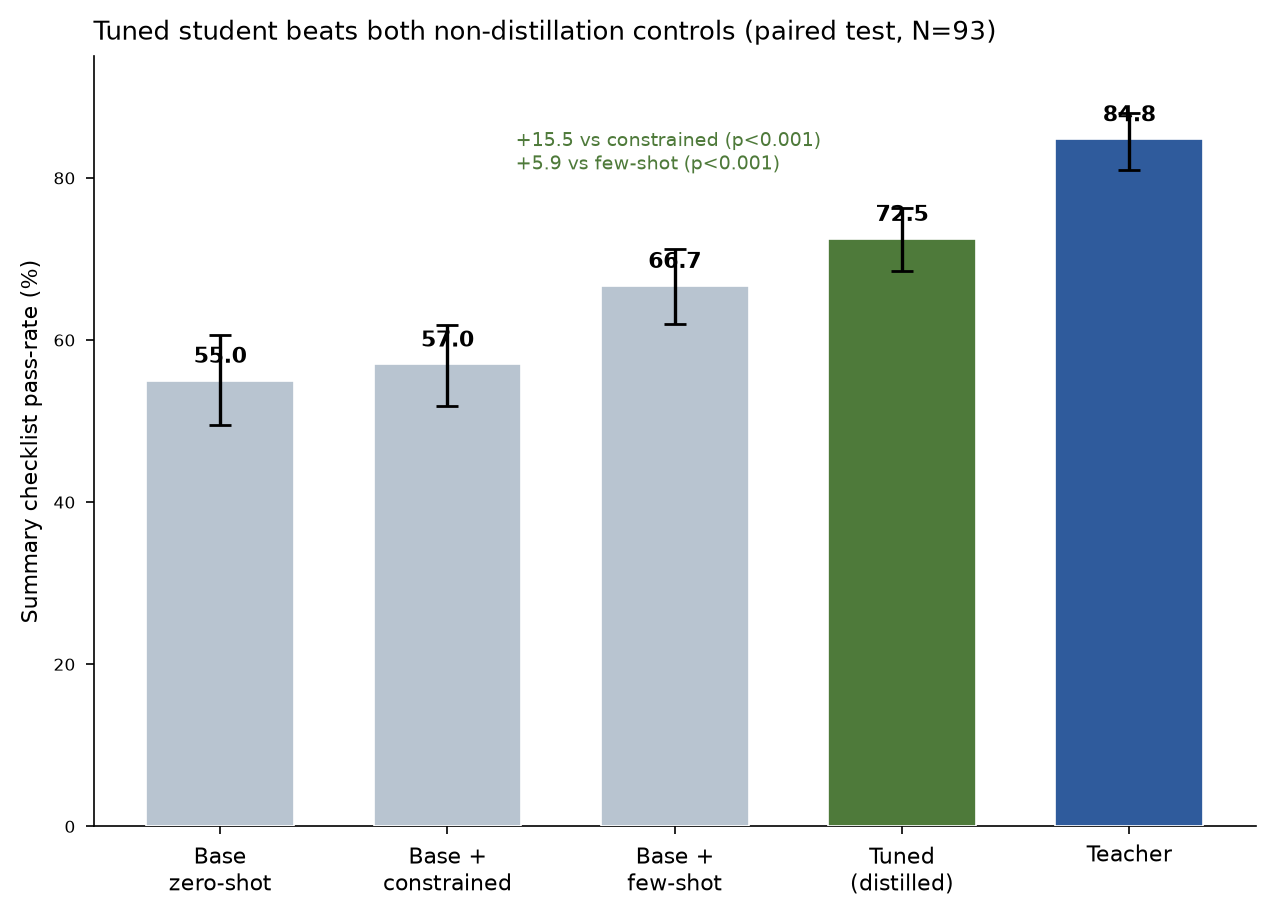
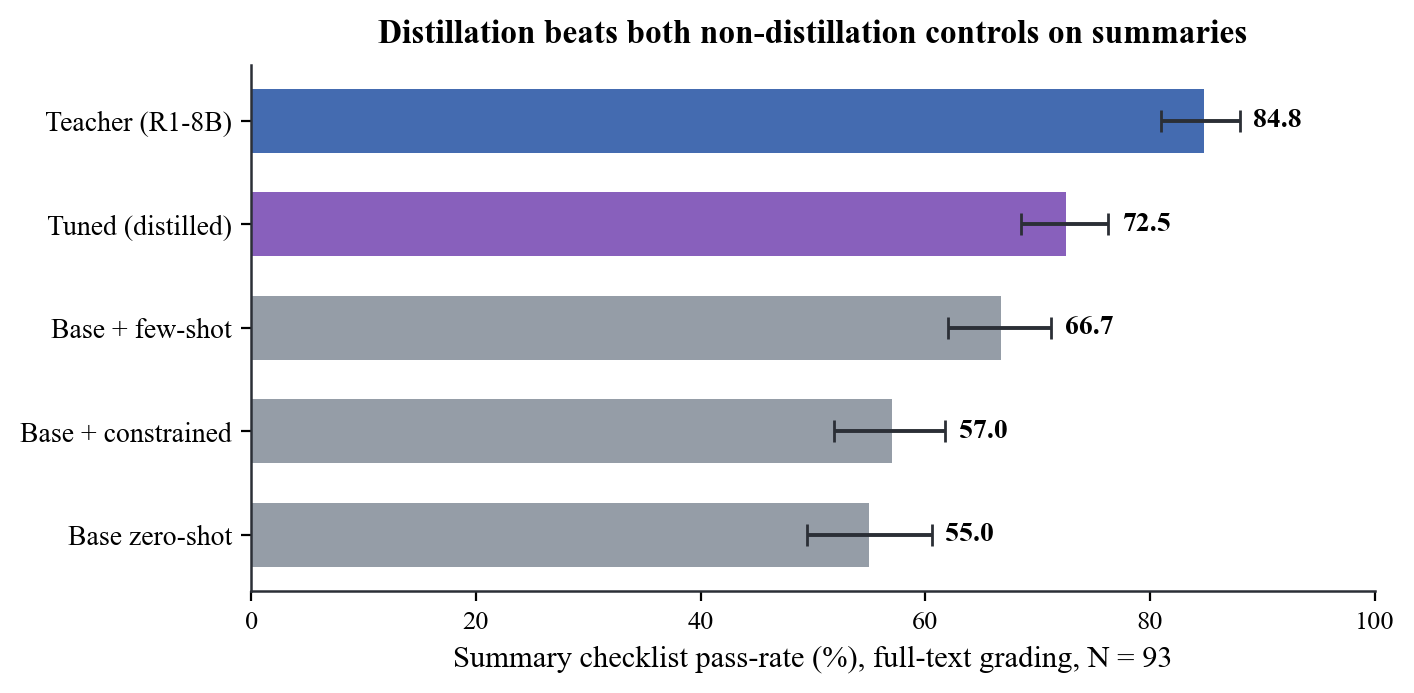
Regenerate fig3/fig4/fig5 in serif style matching the body font
- fig3 (gap-closure): serif, readable labels (was tiny/unreadable), color-coded
  partial/overshoot/regression, summary|classification divider.
- fig4 (checklist), fig5 (efficiency): rebuilt in shared _style serif from the
  primary-grading table numbers. gen_fig3_fig4_fig5.py added.

diff --git a/paper/figures/gen_fig3_fig4_fig5.py b/paper/figures/gen_fig3_fig4_fig5.py
@@ -1,0 +1,94 @@
+#!/usr/bin/env python3
+"""Regenerate fig3 (gap-closure), fig4 (checklist), fig5 (efficiency) in the shared
+serif style, from the primary-grading numbers reported in the paper tables.
+Run from repo root: python3 paper/figures/gen_fig3_fig4_fig5.py"""
+import sys, os
+import numpy as np
+import matplotlib.pyplot as plt
+sys.path.insert(0, os.path.dirname(__file__))
+from _style import apply_style, COLORS
+apply_style()
+
+# ---------- Fig 4: summary checklist pass-rate by arm (primary grading) ----------
+rows = [  # (label, value, ci_lo, ci_hi, color)
+    ("Teacher (R1-8B)",      84.8, 81.0, 88.0, COLORS["r1"]),
+    ("Tuned (distilled)",    72.5, 68.5, 76.3, COLORS["accent"]),
+    ("Base + few-shot",      66.7, 62.0, 71.2, COLORS["base"]),
+    ("Base + constrained",   57.0, 51.9, 61.8, COLORS["base"]),
+    ("Base zero-shot",       55.0, 49.5, 60.6, COLORS["base"]),
+]
+fig, ax = plt.subplots(figsize=(7.2, 3.6))
+ys = list(range(len(rows)))[::-1]
+for y, (lab, v, lo, hi, c) in zip(ys, rows):
+    ax.barh(y, v, color=c, alpha=0.9, height=0.62)
+    ax.errorbar(v, y, xerr=[[v-lo], [hi-v]], color="#2b2f36", capsize=4, lw=1.4)
+    ax.text(hi+1.2, y, f"{v:.1f}", va="center", fontsize=10, fontweight="bold")
+ax.set_yticks(ys); ax.set_yticklabels([r[0] for r in rows])
+ax.set_xlim(0, 100); ax.set_xlabel("Summary checklist pass-rate (%), full-text grading, N = 93")
+ax.spines[["top", "right"]].set_visible(False)
+ax.set_title("Distillation beats both non-distillation controls on summaries", fontweight="bold", pad=8)
+plt.tight_layout(); plt.savefig("paper/figures/fig4_checklist.png"); plt.close()
+print("fig4_checklist.png")
+
+# ---------- Fig 3: per-axis gap-closure toward the teacher ----------
+# (base, tuned, teacher) per axis; gap-closure = (tuned-base)/(teacher-base)*100
+data = [
+    ("takeaway",     44.1, 74.2, 89.2), ("topics_cover", 87.1, 95.7, 98.9),
+    ("tech-lens",    36.6, 54.5, 63.4), ("teacher-lens", 22.6, 62.0, 87.1),
+    ("tone (summ.)", 59.1, 82.8, 92.5), ("thesis",       84.9, 94.2, 97.8),
+    ("opening",      51.6, 77.8, 73.1), ("faithful",     79.6, 75.6, 93.5),
+    ("length",       61.3, 59.1, 81.7),
+    ("urgency",      62.8, 78.5, 57.0), ("frame",        50.0, 58.1, 66.7),
+    ("sentiment",    43.0, 66.0, 80.6), ("depth",        43.0, 48.8, 53.8),
+    ("tone (label)", 24.4, 29.0, 78.5),
+]
+labels, gcs, colors, notes = [], [], [], []
+for name, b, t, te in data:
+    denom = te - b
+    if denom <= 0:                      # teacher <= base: gap-closure undefined
+        gc = 100 if t > b else 0
+        col = COLORS["r1"] if t > b else COLORS["base"]; note = "beats teacher" if t > b else ""
+    else:
+        gc = (t - b) / denom * 100
+        col = "#3f7d3f" if gc > 100 else (COLORS["llama"] if gc < 0 else COLORS["r1"])
+        note = ""
+    labels.append(name); gcs.append(gc); colors.append(col); notes.append(note)
+fig, ax = plt.subplots(figsize=(7.4, 5.4))
+ys = list(range(len(labels)))[::-1]
+ax.axvline(0, color="#8a929e", lw=1); ax.axvline(100, color="#8a929e", lw=1, ls="--")
+for y, g, c, n in zip(ys, gcs, colors, notes):
+    ax.barh(y, g, color=c, alpha=0.9, height=0.66)
+    ax.text(g + (2 if g >= 0 else -2), y, f"{g:.0f}" + (f"  {n}" if n else ""),
+            va="center", ha="left" if g >= 0 else "right", fontsize=8.5)
+ax.set_yticks(ys); ax.set_yticklabels(labels)
+ax.axhline(4.5, color="#c8ccd2", lw=0.8)                       # summary | classification divider
+ax.text(150, 9.3, "summary", fontsize=9, style="italic", color="#5a6675")
+ax.text(150, 3.6, "classification", fontsize=9, style="italic", color="#5a6675")
+ax.set_xlim(-40, 170); ax.set_xlabel("Gap-closure toward teacher (%)   0 = base, 100 = teacher")
+ax.spines[["top", "right"]].set_visible(False)
+ax.set_title("Per-axis recovery: most axes partial, two overshoot, two regress", fontweight="bold", pad=8)
+plt.tight_layout(); plt.savefig("paper/figures/fig3_gap_closure.png"); plt.close()
+print("fig3_gap_closure.png")
+
+# ---------- Fig 5: efficiency (batch collapse + quality-cost plane) ----------
+fig, (axL, axR) = plt.subplots(1, 2, figsize=(9.6, 3.8))
+vols = np.array([100, 200, 300, 400, 500])
+axL.plot(vols, vols*39.2/3600, "-o", color=COLORS["r1"], label="Teacher (R1-8B), ~39 s/article")
+axL.plot(vols, vols*0.8/3600, "-s", color="#3f7d3f", label="Any 0.6B arm, ~0.8 s/article")
+axL.set_xlabel("Articles in batch"); axL.set_ylabel("Wall-clock (hours)")
+axL.annotate("5.4 h", (500, 5.44), fontsize=9, color=COLORS["r1"], ha="right", va="bottom")
+axL.annotate("~7 min", (500, 0.11), fontsize=9, color="#3f7d3f", ha="right", va="bottom")
+axL.legend(frameon=False, fontsize=8.5, loc="upper left")
+axL.spines[["top", "right"]].set_visible(False)
+axL.set_title("Batch wall-clock vs. volume", fontweight="bold", fontsize=11)
+pts = [("Teacher", 39200, 84.8, COLORS["r1"]), ("Tuned", 774, 72.5, COLORS["accent"]),
+       ("Few-shot", 856, 66.7, COLORS["base"]), ("Constrained", 824, 57.0, COLORS["base"]),
+       ("Base", 845, 55.0, COLORS["base"])]
+for name, ms, q, c in pts:
+    axR.scatter(ms, q, s=60, color=c, zorder=3)
+    axR.annotate(name, (ms, q), fontsize=8.5, xytext=(4, 4), textcoords="offset points")
+axR.set_xscale("log"); axR.set_xlabel("Latency per article (ms, log)"); axR.set_ylabel("Summary quality (%)")
+axR.spines[["top", "right"]].set_visible(False)
+axR.set_title("Quality-cost plane: size is the horizontal move", fontweight="bold", fontsize=11)
+plt.tight_layout(); plt.savefig("paper/figures/fig5_efficiency.png"); plt.close()
+print("fig5_efficiency.png")